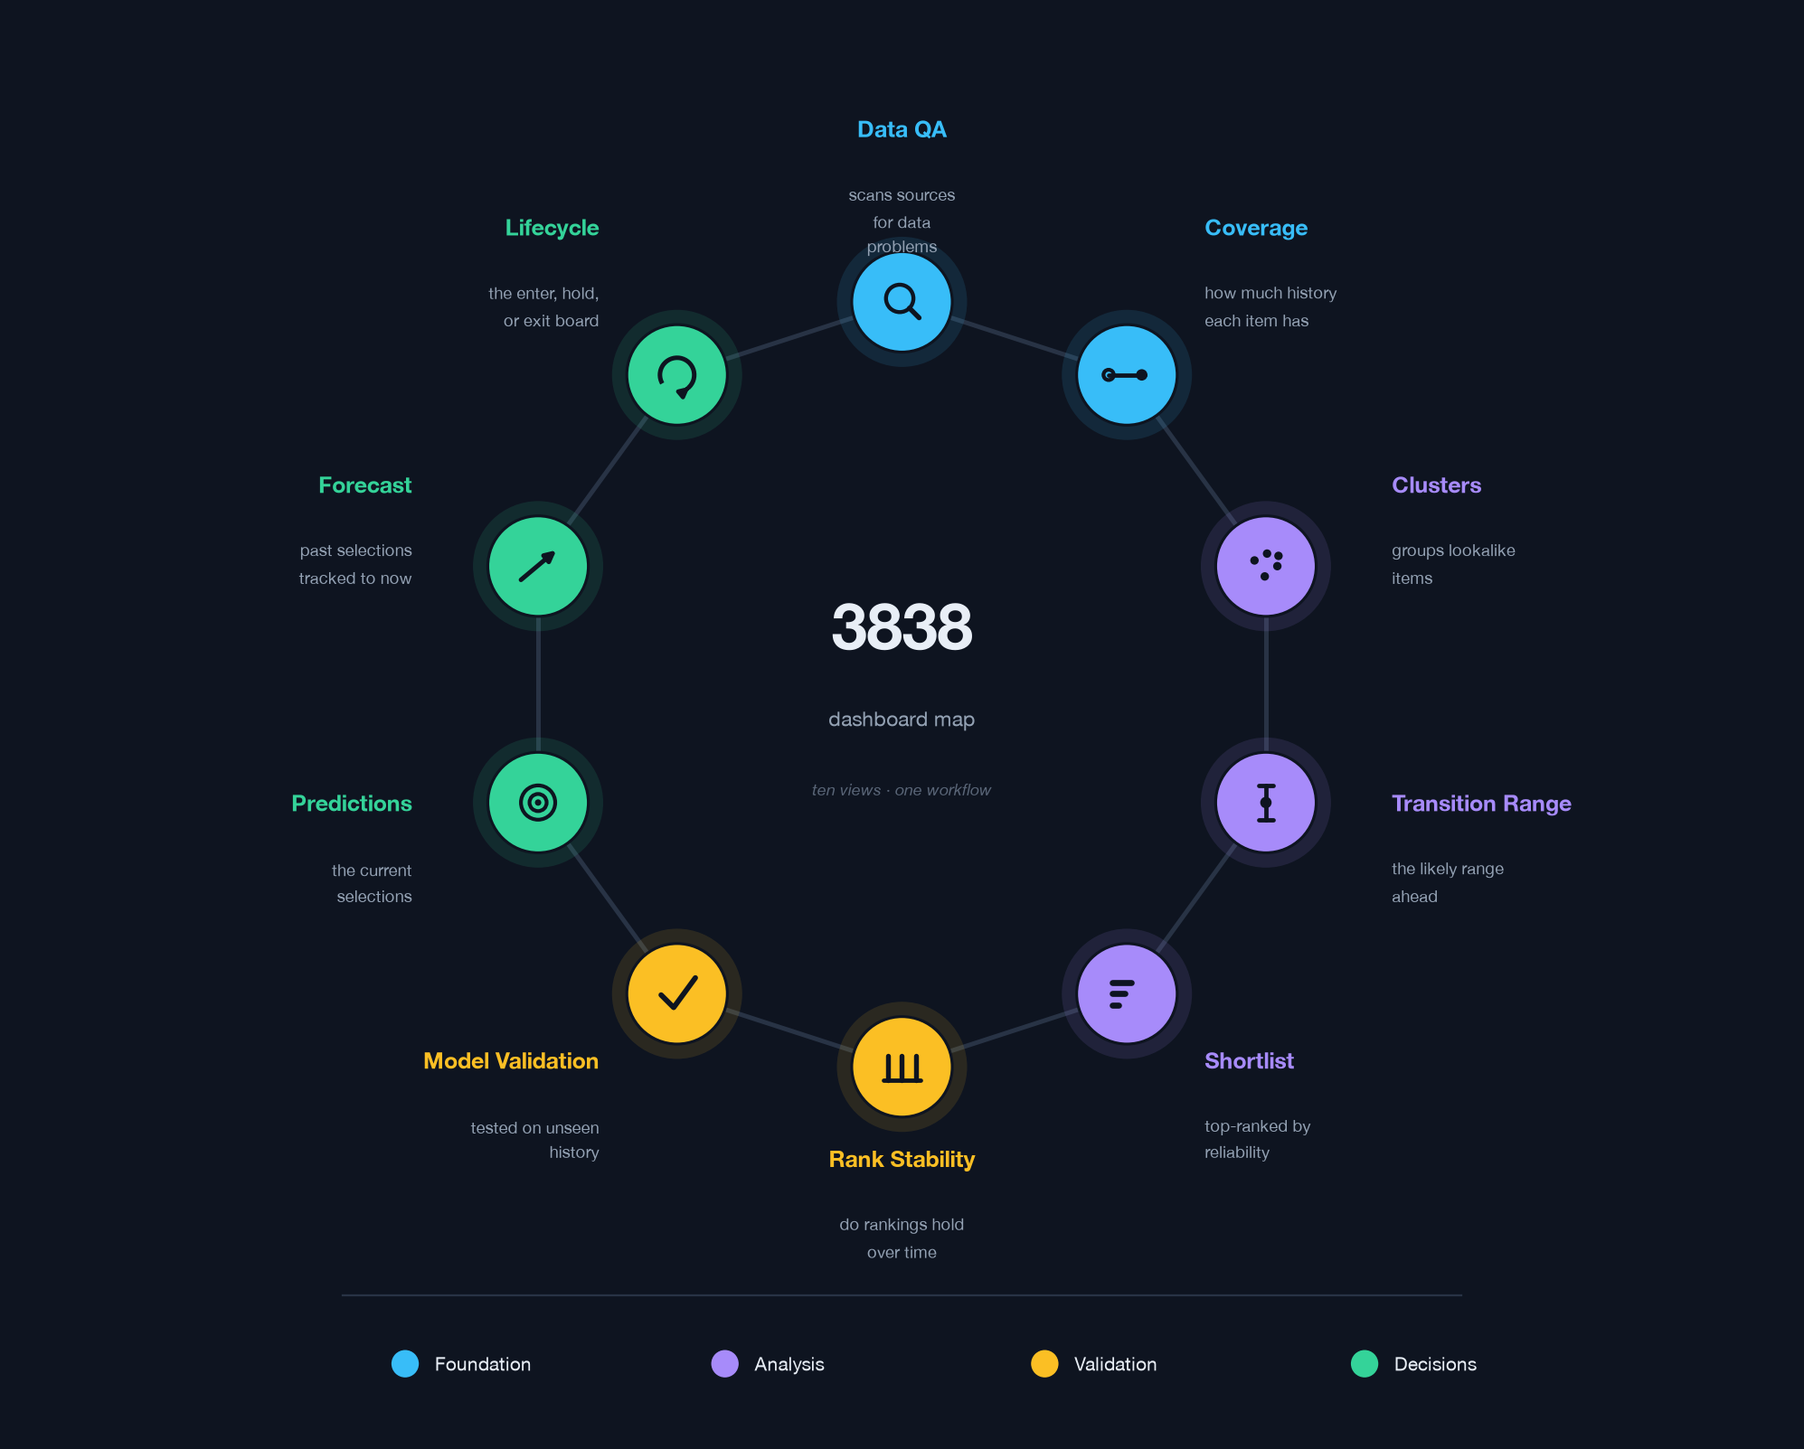
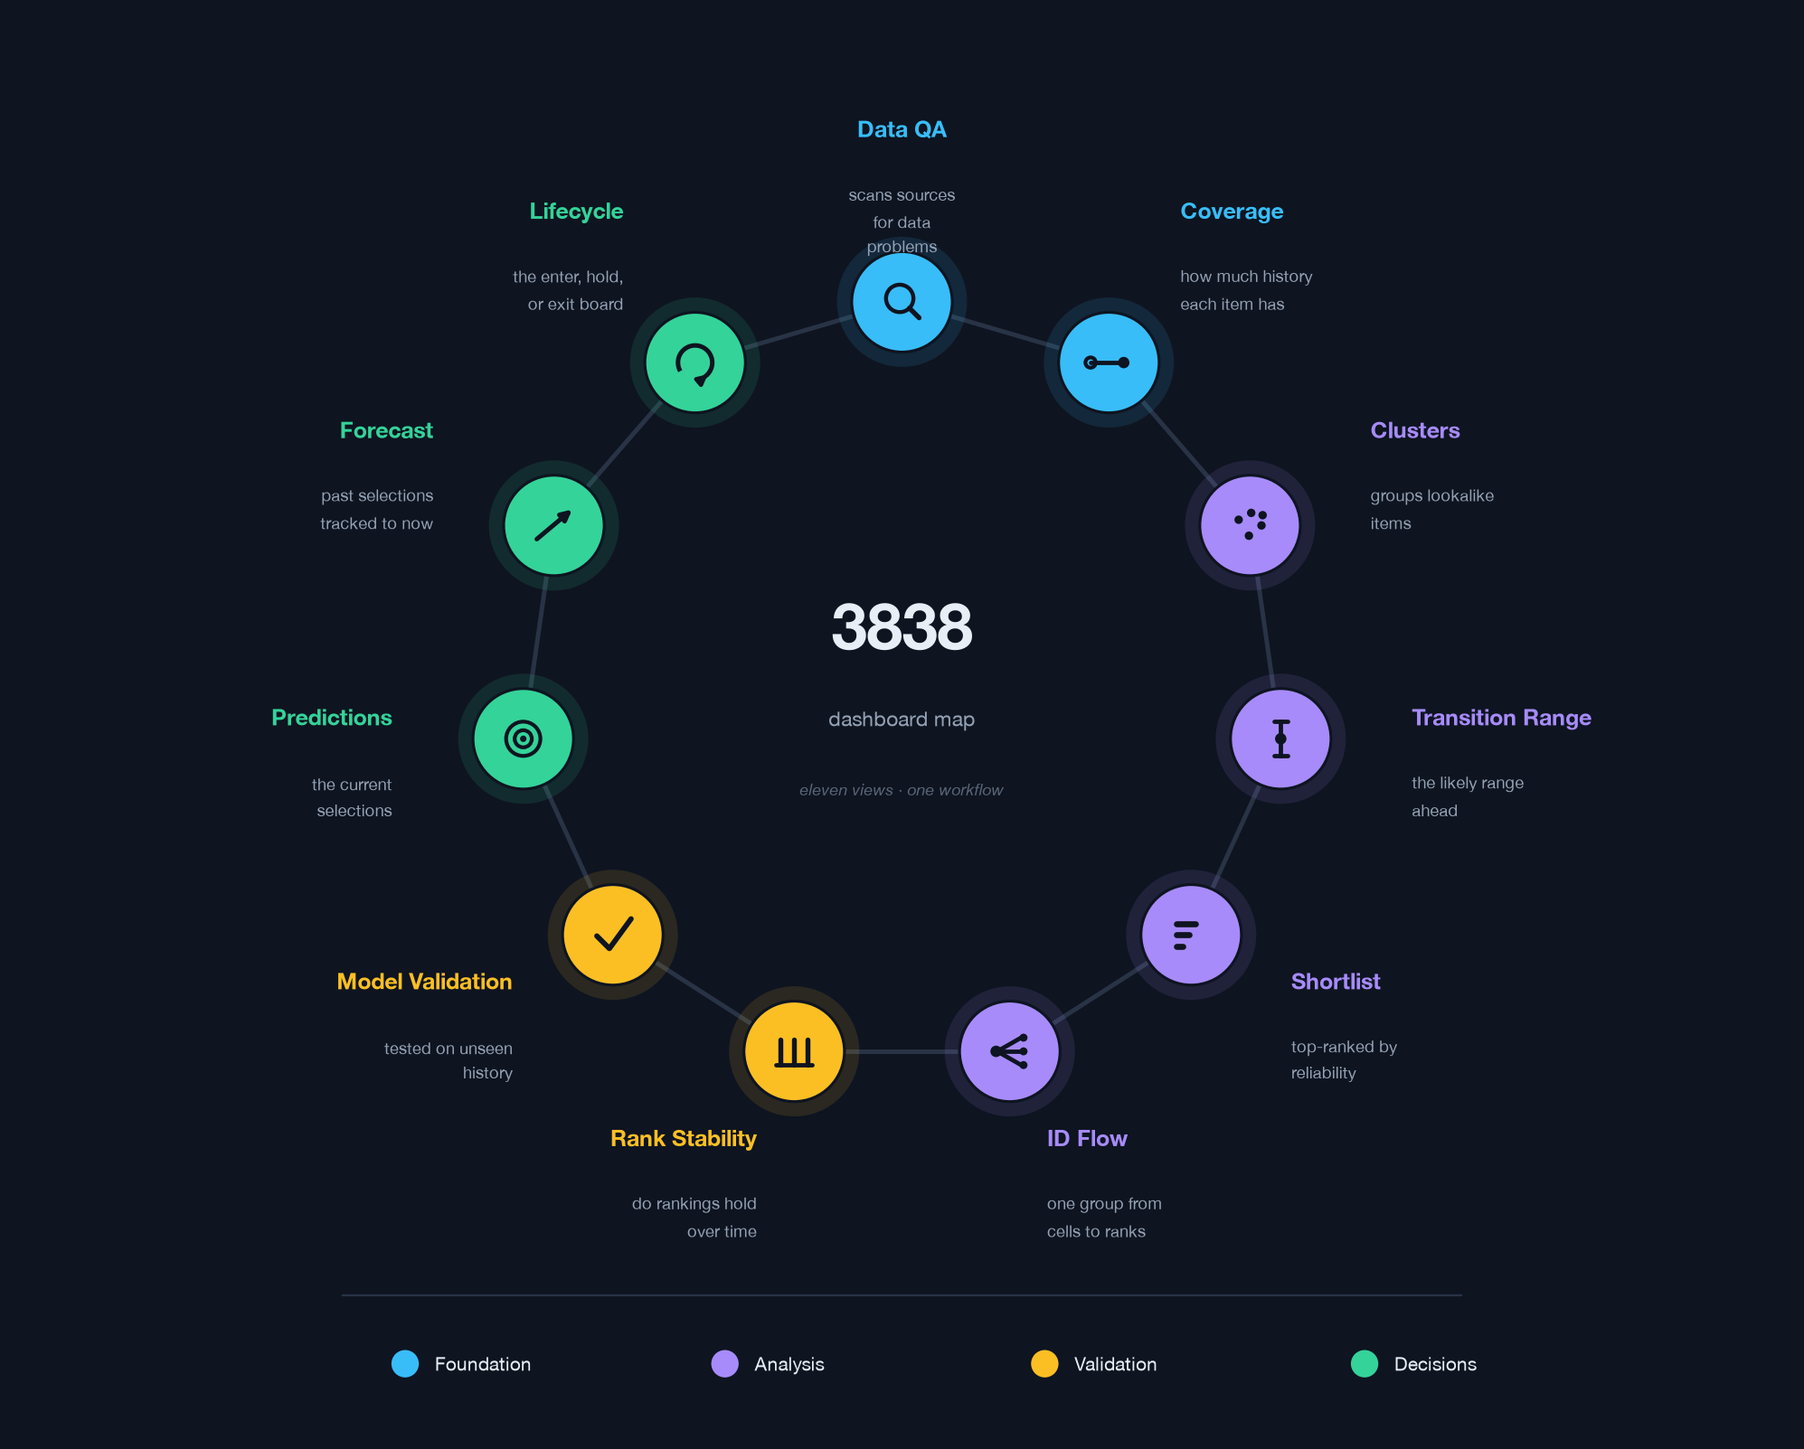
README: name the stack, use standard terms, lead with the audit
Status leads with the October look-ahead audit: no proven edge, model
buys stopped for good, SEC fundamentals next. The system table gains a
Built with column. Clusters, walk-forward backtest and LLM grader
replace the vaguer words. The 2026-08-13 freeze date is back.

The tab map adds ID Flow, so it shows all eleven views.

diff --git a/tools/dashboard_tab_map.py b/tools/dashboard_tab_map.py
@@ -1,4 +1,4 @@
-"""3838 dashboard tab map: a ring of the dashboard's ten tabs.
+"""3838 dashboard tab map: a ring of the dashboard's eleven tabs.
 
 Keeps the hand sketch's ring-of-nodes idea but treats it as a designed piece:
 the tabs are arranged in workflow order and grouped into the four stages they
@@ -42,6 +42,7 @@ TABS = [
     ("clusters",  "Clusters",         "groups lookalike items",          ANALY),
     ("range",     "Transition Range", "the likely range ahead",          ANALY),
     ("bars",      "Shortlist",        "top-ranked by reliability",       ANALY),
+    ("flow",      "ID Flow",          "one group from cells to ranks",   ANALY),
     ("levels",    "Rank Stability",   "do rankings hold over time",      VALID),
     ("check",     "Model Validation", "tested on unseen history",        VALID),
     ("target",    "Predictions",      "the current selections",          DECIDE),
@@ -98,6 +99,11 @@ def _icon(ax, key, x, y):
         ax.add_patch(FancyArrowPatch((x - 0.15, y - 0.12), (x + 0.16, y + 0.14),
                      arrowstyle="-|>", mutation_scale=11, lw=2.4,
                      color=ko, shrinkA=0, shrinkB=0, zorder=z))
+    elif key == "flow":                               # one group fans out to its ranks
+        for yo in (0.12, 0.0, -0.12):
+            line([x - 0.11, x + 0.10], [y, y + yo])
+            dot(x + 0.12, y + yo, 0.035)
+        dot(x - 0.12, y, 0.05)
     elif key == "loop":
         ax.add_patch(Arc((x, y), 0.30, 0.30, angle=0, theta1=-50, theta2=210,
                          color=ko, lw=2.4, zorder=z))
@@ -152,7 +158,7 @@ def build(ax):
             fontsize=34, fontweight="bold", zorder=5)
     ax.text(0, -0.30, "dashboard map", ha="center", va="center", color=MUTED,
             fontsize=11, zorder=5)
-    ax.text(0, -0.92, "ten views · one workflow", ha="center", va="center",
+    ax.text(0, -0.92, "eleven views · one workflow", ha="center", va="center",
             color=FAINT, fontsize=8.5, style="italic", zorder=5)
 
     # stage legend along the bottom

diff --git a/README.md b/README.md
@@ -2,170 +2,136 @@
 
 ![Architecture Diagram](tools/alphastream_system_architecture.png?v=7)
 
-AlphaStream is a data and machine-learning system. It ingests time-series data, cleans it into a canonical layer, ranks groups with unsupervised clustering and statistical scoring, and validates every ranking on periods outside the training data. A separate LLM layer grades each selection against a weighted qualitative rubric. An interactive front end sits on top.
+AlphaStream is a data and machine learning system that picks stocks and tests each pick against history. Python loads daily prices and SEC filings into PostgreSQL. dbt cleans the prices into one canonical table. Gaussian mixture clustering groups stocks by long-run growth and age. A forecasting model scores each stock within its cluster. A walk-forward backtest validates every score. An LLM grader reviews each pick. A Shiny front end shows the results. Airflow runs it all on a schedule.
 
-Over 2012–2024, its selections outperformed the benchmark by roughly 8 percentage points a year.
+## Status
 
-## Project status
+The build is complete and runs in production.
 
-**Build phase: complete.** The system runs in prod on a schedule: ingestion, canonical layer, clustering and scoring, walk-forward validation, the qualitative LLM grade, and the front end. The selection gate in the modeling layer was **frozen on 2026-08-13** as a pre-registered forward test, so results are graded out-of-sample without re-tuning on the same history.
+The pick rules were frozen on 2026-08-13 as a pre-registered forward test. In October 2026 a point-in-time audit found look-ahead in the walk-forward backtest. The backtest scored picks with data dated after its own cutoffs. Rebuilt point in time on real prices, the picks show no proven edge. The coarse cluster signal holds in the typical stock: falling clusters keep losing. What fails is picking winners inside the rising clusters.
 
-Remaining work is monitoring and optimization:
+Model buys are stopped for good. The live log keeps running as a record. Any future model must pass the same point-in-time replay before it buys.
 
-- **Monitor** — the pipeline runs unattended. Every DAG alerts on failure, and two independent watchdogs alert when a scheduled run goes missing. See the [Operations Manual](docs/operations_manual.md).
-- **Do not re-tune before the checkpoints.** Changing the objective, sizing, or filters resets the forward clock. Optimization ideas wait until the 6- and 12-month checkpoints grade the frozen rules.
+Classic price signals such as momentum and low volatility show no proven edge either. So work now goes into data beyond prices. A raw layer of SEC EDGAR fundamentals is built and tested. It keeps every filed version. A fact counts from the trading day after it was filed. Valuation and quality indicators come next.
+
+## The system
+
+Five layers. Data sits at the center.
+
+| Layer | What it does | Built with |
+|---|---|---|
+| **Data** | Ingests prices from Massive and Yahoo Finance. Ingests filings from SEC EDGAR. Builds the canonical price table. Clusters and scores stocks. Validates every score with a walk-forward backtest. | Python, dbt, PostgreSQL, scikit-learn |
+| **Backend** | Runs every job on a schedule. Grades picks with an LLM. Keeps the portfolio book. Sends alerts. | Airflow, cron, Claude API, Telegram |
+| **Frontend** | Shows the board and the picks. Shows the checks on the model and the data. | R, Shiny, Plotly |
+| **Infra** | Prod runs on a cloud server with a managed database. A Mac mirrors it with local dev and staging databases. | DigitalOcean, Docker, PostgreSQL, OrbStack |
+| **Dev tools** | Version control, tests, deploys and docs for every layer. Pre-registered rules for every experiment. | Git, GitHub, pytest, dbt tests, dbt docs |
 
 ## Repositories
 
-Three repositories:
-
-- **`elt-canonical-data`** (this repo, public) — the data layer: ingestion, raw storage, cleaned canonical tables, shared infrastructure and documentation.
-- **`inference-models`** (private) — the modeling layer: unsupervised clustering, statistical scoring, walk-forward validation, and serving tables on top of the canonical tables.
-- **`qualstream`** (private, decoupled) — a standalone agent that grades each group member with one Claude call, using only a point-in-time data block (no web search), so every grade is reproducible and backtestable. Refreshed every 4 months.
-
-## Environments
-
-- Two pipeline setups: local and cloud (production)
-- Three databases: dev and staging (local), prod (managed)
+- **elt-canonical-data** (this repo, public). The data layer: ingestion, raw storage and the canonical tables. Also the shared Airflow DAGs, the front end and the docs.
+- **elt-inference-models** (private). The modeling layer: clustering, scoring, walk-forward validation and serving tables in dbt and Python.
+- **qualstream** (private). The LLM grader. It grades each pick with one Claude call. The call sees only data from that date and has no web search. So every grade can be replayed and backtested.
 
 ## Pipeline
 
 ![Pipeline](tools/pipeline_grouped.png?v=3)
 
-The flow, grouped by stage; each box is labeled with the database schema it lands in. Data is pulled in, screened for quality, and standardized into the canonical layer. From there it splits into return features and clusters (unsupervised machine learning), feeds a statistical scoring stage, and is validated before reaching the front end. A parallel qualitative stage (qualstream) grades each selection with a single LLM call and feeds the same front end. The machine-learning and LLM stages are marked on the diagram.
+Each box names the database schema it lands in. Data is pulled in and screened for quality. It becomes one canonical price per stock per day. From there it splits into return features and clusters. A forecasting model scores the transitions in each cluster. A walk-forward backtest validates each score and weights it by credibility. In parallel the LLM grader scores each pick on a weighted rubric. Both feed the serving tables and the front end.
 
-## Data Lineage
+## Data lineage
 
-### ELT — Canonical Data
+### Canonical data
 ![ELT Canonical Data Lineage](tools/elt_lineage_graph.jpg)
 
-From raw ingestion to the standardized, deduplicated tables that every downstream model reads.
+The dbt lineage from raw ingestion to the canonical tables every model reads.
 
-### ELT — Modeling & Scoring
+### Modeling and scoring
 ![ELT Inference Lineage](tools/inference_lineage_graph.jpg?v=2)
 
-Unsupervised clustering, statistical scoring, and walk-forward validation tables on top of the canonical layer.
+Clustering, scoring and walk-forward validation on top of the canonical layer.
 
-## Analytics Front End
+## Front end
 
-Ten views: data checks, group ranking, validation, and past selections against the benchmark. Built with R, Shiny, Plotly, and PostgreSQL, in Docker.
+Eleven views in four stages: foundation, analysis, validation and decisions. Built with R, Shiny and Plotly. It runs in its own Docker image.
 
-![The front end's ten views, grouped into four workflow stages](tools/dashboard_tab_map.png?v=2)
-
-### Transition Range
-
-![Transition Range](tools/alpha_forecast.jpg?v=2)
-
-Compares each group's past and future return distributions across lag horizons up to 60 years.
-
-Supports:
-- Side-by-side comparison of past and future distributions across groups.
-- Filtering by group, time window, and environment.
-- Record counts per group.
-
-### Clusters
-
-![Cluster scatter](tools/clusters_scatter.jpg)
-
-Groups items that behave alike into clusters and plots every member in one view.
-
-Supports:
-- One point per member, placed by age and rate of change.
-- Color-coding by cluster.
-- Toggling clusters on or off and switching environments.
-
-### Rank Stability
-
-![Rank Stability across walk-forward cohorts](tools/rank_stability.jpg)
-
-Small multiples of rank stability across 84 walk-forward cohorts, one heatmap per cluster id. Each cell combines two signals at a given vingtile (5% rank bin) and horizon: whether the median beat its benchmark and whether the forecast direction was correct.
-
-Supports:
-- Green means both held: the median beat the benchmark and the forecast direction was correct.
-- Top-ranked ids (1-12) shade green when both hold; bottom-ranked ids (13-19) shade purple when the reverse held.
-- Filtering by environment, cluster, vingtile depth, metric, and cutoff range.
-
-### Predictions (Backtest Replay)
-
-![Predictions: per-selection realized excess vs benchmark](tools/dashboard_predictions.jpg?v=1)
-
-Replays every ranked selection as it stood at each walk-forward cutoff and shows how it performed against the benchmark.
-
-Supports:
-- One bar per selection, sized by its realized excess versus the benchmark over the hold window.
-- Color by outcome: beat the benchmark, lagged, or dropped out.
-- Filtering by as-of date, replay horizon, cluster, and rank depth.
-
-### Forecast
-
-![Forecast: selections vs benchmark vs walk-forward backtest](tools/dashboard_forecast.jpg?v=2)
-
-Starts at any past date and tracks the model's selections forward in real values against the benchmark, with the walk-forward backtest as the expected path.
-
-Supports:
-- Selected set versus benchmark versus per-cluster backtest over the chosen hold length.
-- A live out-of-sample log since the model went live.
-- Excess return, sensitivity, and a risk-adjusted ratio for the selected window.
+![The front end's eleven views, grouped into four workflow stages](tools/dashboard_tab_map.png?v=3)
 
 ### Lifecycle
 
 ![Lifecycle: the enter, hold, or exit board for active selections](tools/dashboard_lifecycle.jpg?v=2)
 
-Sorts every active selection into enter, hold, or exit by its place in the hold window and whether it still clears the qualitative gate.
+The board. Every active pick sits in one column: enter, hold or exit. The hold window and the LLM grade decide the column. It also tracks the portfolio against the benchmark.
 
-Supports:
-- Enter, hold, and exit columns, each showing entry date and hold-window progress.
-- A hindsight view of the graded and gate-passing sets against the benchmark.
-- A simulator tracking adopted selections against the benchmark.
+### Forecast
 
-## Project Timeline
+![Forecast: selections vs benchmark vs walk-forward backtest](tools/dashboard_forecast.jpg?v=2)
 
-**2024 — Foundation**
-- ELT pipeline on Python, dbt, and Airflow
-- Initial canonical data model
-- Separate dev and staging environments
+Follows the picks forward from any past date against the benchmark. The walk-forward backtest is the expected path. A live out-of-sample log tracks the real calls. A banner warns that the backtest has look-ahead.
 
-**2025 — Scale**
-- Migrated ingestion to a new data provider
-- Consolidated multiple sources into one pipeline
-- Added a semantic layer of standardized metrics over the history
-- Moved execution to the cloud
+### Predictions
 
-**2026 Q1 — Production Infrastructure**
-- Split into public infrastructure and private logic repos
-- Containerized the stack with Docker
-- Moved hosting to DigitalOcean with managed PostgreSQL
+![Predictions: per-selection realized excess vs benchmark](tools/dashboard_predictions.jpg?v=1)
 
-**2026 Q2 — Forecasting & Front End**
-- Reworked forecasting with walk-forward validation and trust scoring
-- Added front-end views for ranges, coverage, and clusters
-- Expanded data coverage by 300%, removing survivorship bias
+The current buy list. It also replays every past pick as it stood at each walk-forward cutoff. Each bar is one pick's excess return against the benchmark.
 
-**2026 Q3 — Reliability & Data Quality**
-- Point-in-time forecasting with backtest replay and a live log
-- Gated forecasts to the rank ranges with proven edge
-- Added qualstream, a qualitative LLM grade per selection
-- Built the Lifecycle board: enter, hold, or exit
+### Rank Stability
 
-**2026 Q3 — Hands-off Operation & Alerting**
-- Froze the selection gate as a pre-registered forward test
-- Automated daily maintenance: enter, hold, or exit
-- Plain-language alerts on every pipeline stage
-- Watchdogs for stalled runs, low disk, and missed syncs
+![Rank Stability across walk-forward cohorts](tools/rank_stability.jpg)
 
-**Ongoing — Monitoring & Optimization**
-- Monitor the live selection against realized outcomes
-- Optimize and test the qualitative grading layer
-- Audit the design against decision principles
+Heatmaps of every rank slot in every cluster across the walk-forward cutoffs. Green means the slot beat the benchmark and called the direction right. The October audit found that these cells grade picks on data from after the cutoff. So the view does not measure rank skill.
 
----
+### Clusters
+
+![Cluster scatter](tools/clusters_scatter.jpg)
+
+Every stock on one chart, placed by age and growth. Color shows the cluster.
+
+### Transition Range
+
+![Transition Range](tools/alpha_forecast.jpg?v=2)
+
+Compares each cluster's past and future return distributions across lag horizons.
+
+## Timeline
+
+### Data
+- **2024.** First ELT pipeline and the canonical price model.
+- **2025.** Daily prices move from Yahoo Finance to Polygon, now Massive. Both feeds merge into one canonical price table. A metrics layer adds returns against SPY over the full history.
+- **2026 Q2.** Delisted stocks added. Coverage grows by 300% and survivorship bias is removed. Forecasts get walk-forward validation and a credibility weight per cell.
+- **2026 Q3.** A live log records every call. Picks are gated to the rank slots that beat the benchmark in the backtest. The gate is frozen on 2026-08-13 as a pre-registered forward test.
+- **2026 Q4.** A point-in-time audit finds look-ahead in the backtest. On real prices the picks show no proven edge. Classic price signals show none either. A raw layer of SEC EDGAR fundamentals is added.
+
+### Backend
+- **2024.** Airflow schedules the pipeline.
+- **2026 Q3.** qualstream grades each pick with Claude. The Lifecycle board updates itself each day. Every stage sends Telegram alerts. Watchdogs catch stalled runs, low disk and missed syncs.
+- **2026 Q4.** Model buys stopped for good. A lock keeps the daily model jobs idle during the monthly walk-forward run. Airflow jobs added for SEC EDGAR.
+
+### Frontend
+- **2026 Q2.** Transition Range, Coverage and Clusters views.
+- **2026 Q3.** Predictions replays the backtest. Forecast adds the live log. The Lifecycle board arrives.
+- **2026 Q4.** Look-ahead warning on the backtest views.
+
+### Infra
+- **2024.** Local PostgreSQL with separate dev and staging databases.
+- **2025.** The pipeline moves to the cloud.
+- **2026 Q1.** The stack moves into Docker. Hosting moves to DigitalOcean with managed PostgreSQL.
+- **2026 Q4.** The Shiny app gets its own Docker image.
+
+### Dev tools
+- **2024.** Python, dbt and Airflow as the core stack.
+- **2026 Q1.** Code splits into a public infrastructure repo and private model repos.
+- **2026 Q3.** Experiments are pre-registered. Decision rules are committed before each run.
+- **2026 Q4.** Point-in-time audit scripts replay the walk-forward on real prices.
+
+### Next
+- Build valuation and quality indicators from the fundamentals, such as P/E, EV/EBITDA and ROIC.
+- Backtest them point in time on real prices before any use.
 
 ## Documentation
 
-See the `docs/` directory:
-
-- [**Architecture & Design**](docs/architecture.md)
-- [**Development Guide**](docs/development_guide.md)
-- [**Operations Manual**](docs/operations_manual.md)
-- [**Security**](docs/security.md)
-- [**Cheat Sheet**](docs/cheat_sheet.md)
+- [Architecture and Design](docs/architecture.md)
+- [Development Guide](docs/development_guide.md)
+- [Operations Manual](docs/operations_manual.md)
+- [Company Fundamentals](docs/edgar_fundamentals.md)
+- [Security](docs/security.md)
+- [Cheat Sheet](docs/cheat_sheet.md)
